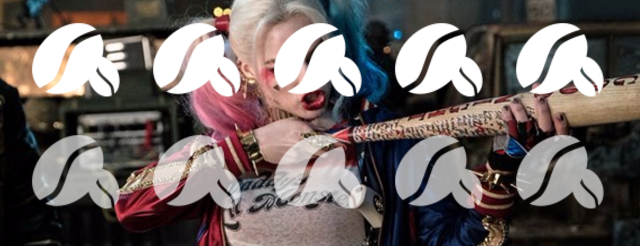
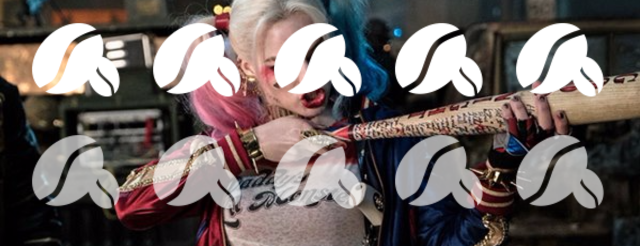
teste

diff --git a/app/controllers/campaigns_controller.rb b/app/controllers/campaigns_controller.rb
@@ -258,14 +258,18 @@ class CampaignsController < ApplicationController
     end
 
     # load final strip preview
-    final_strip_preview = MiniMagick::Image.open(strip.file.path)
+    MiniMagick::Tool::Convert.new do |convert|
+      convert.merge! ["-size", "640x248", "xc:transparent", "write.png"]
+    end
+
+    transparent_strip = MiniMagick::Image.open("write.png")
 
     # add stamps to final strip preview
     if !stamp.nil?
       stamp_image = MiniMagick::Image.open(stamp.file.path)
       # ADD STAMPS
       for i in 0..number_stamps-1
-        final_strip_preview = composite_image(final_strip_preview, stamp_image, i, total_stamps)
+        transparent_strip = composite_image(transparent_strip, stamp_image, i, total_stamps)
       end
     end
 
@@ -278,9 +282,13 @@ class CampaignsController < ApplicationController
       unstamp_image = MiniMagick::Image.open(unstamp.file.path)
       # ADD UNSTAMPED
       for i in number_stamps..total_stamps-1
-        final_strip_preview = composite_image(final_strip_preview, unstamp_image, i, total_stamps)
+        transparent_strip = composite_image(transparent_strip, unstamp_image, i, total_stamps)
       end
     end
+
+    # put unstamps over stamp
+    final_strip_preview = MiniMagick::Image.open(strip.file.path)
+    final_strip_preview = compose_strip_with_stamps(final_strip_preview, transparent_strip)
 
     # save the generated preview strip
     file          = ActionDispatch::Http::UploadedFile.new({
@@ -306,6 +314,14 @@ class CampaignsController < ApplicationController
     final_strip_image = final_strip_image.composite(stamp_image) do |c|
       c.compose "Over"
       c.geometry "+#{x}+#{y}"
+    end  
+
+    final_strip_image
+  end
+
+  def compose_strip_with_stamps(final_strip_image, stamps_image)
+    final_strip_image = final_strip_image.composite(stamps_image) do |c|
+      c.compose "Over"
     end  
 
     final_strip_image
